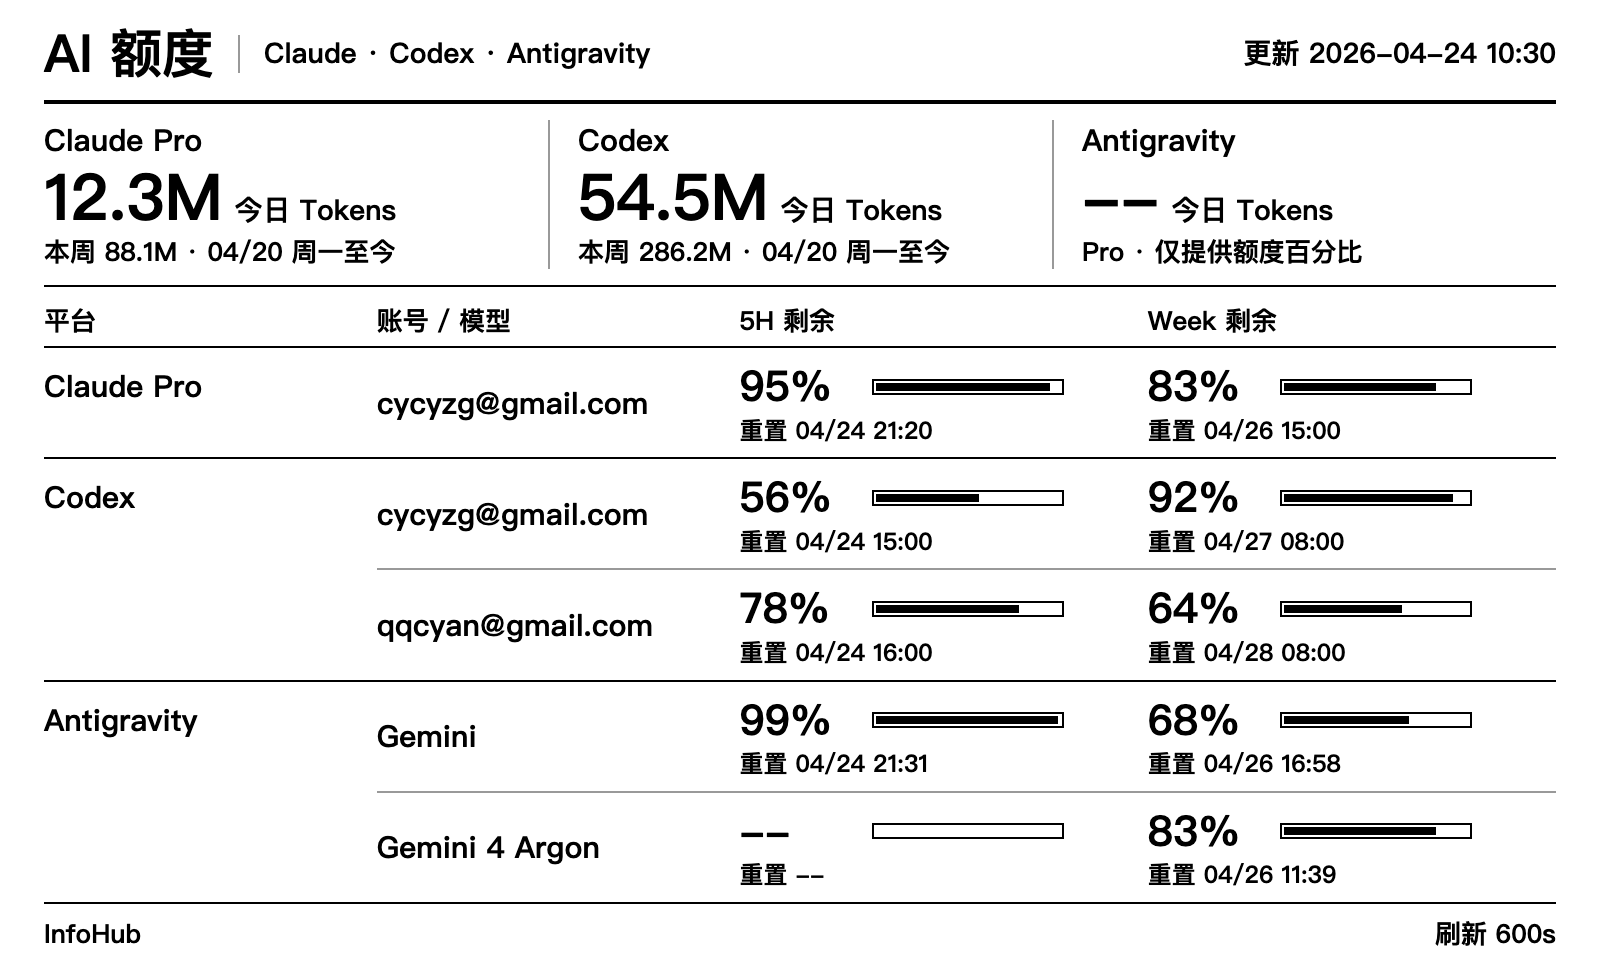
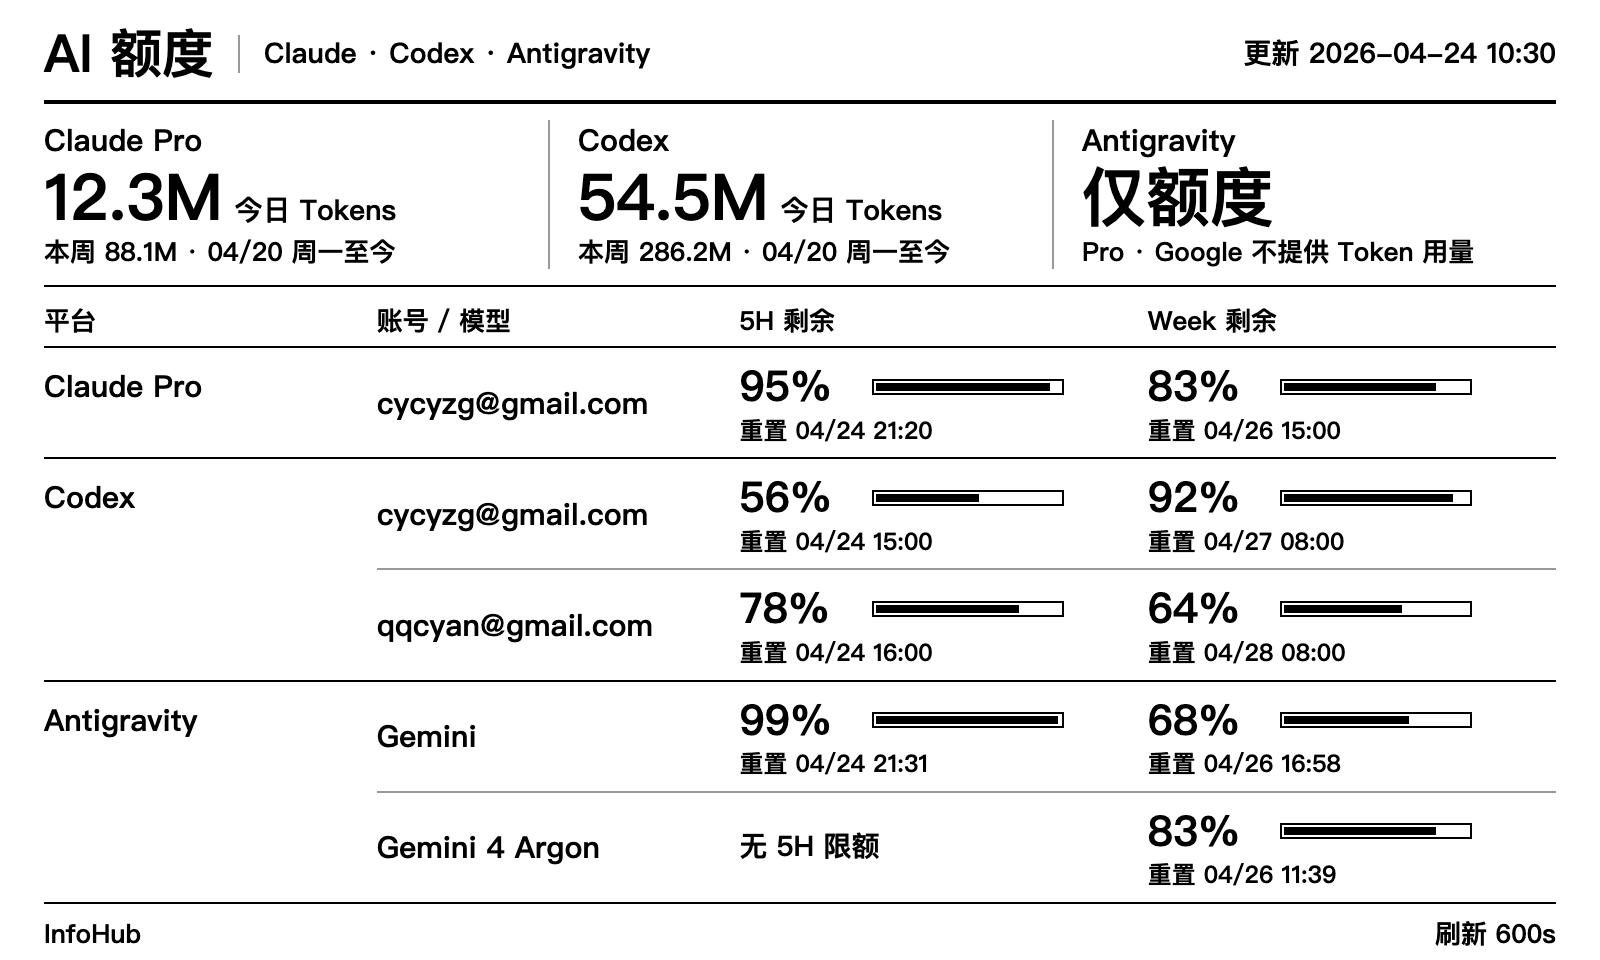
Show quota-only and weekly-only Antigravity groups explicitly
- Antigravity usage cell reads "仅额度" instead of "--"; Google exposes no
  token counts.
- Weekly-only groups (Gemini 4 Argon on Pro) show "无 5H 限额" without a
  bar or reset time, via a new `not_applicable` flag; unknown stays "--".
- A 5H window whose reset passed reads as refreshed instead of vanishing.

Changed region(s): [[0.6562, 0.1562, 0.9375, 0.2812], [0.4688, 0.8438, 0.6562, 0.9375]]

diff --git a/internal/api/dashboard_trio.html b/internal/api/dashboard_trio.html
@@ -34,6 +34,7 @@
   #trio .trio-track { flex: 1; max-width: 96px; height: 8px; border: 1px solid #000; padding: 1px; }
   #trio .trio-fill { display: block; height: 100%; background: #000; }
   #trio .trio-reset { font-size: 12px; }
+  #trio .trio-na { font-size: 14px; }
   #trio .trio-footer { margin-top: auto; border-top: 1px solid #000; padding-top: 6px; display: flex; justify-content: space-between; font-size: 13px; }
   @media (max-width: 560px) {
     #trio { padding: 14px; }
@@ -57,7 +58,7 @@
     {{range .Device.Platforms}}
     <div>
       <h2>{{.Name}}</h2>
-      <div class="trio-number"><strong>{{.Today}}</strong><span>今日 Tokens</span></div>
+      <div class="trio-number"><strong>{{.Today}}</strong>{{if .TodayLabel}}<span>{{.TodayLabel}}</span>{{end}}</div>
       <p class="trio-note">{{.UsageNote}}</p>
     </div>
     {{end}}
@@ -69,7 +70,7 @@
       <tr{{if eq $index 0}} class="trio-group"{{end}}>
         {{if eq $index 0}}<td class="trio-platform" rowspan="{{len $platform.Rows}}">{{$platform.Name}}</td>{{end}}
         <td class="trio-account">{{$row.Account}}</td>
-        <td><div class="trio-quota"><strong>{{$row.FiveHour.Text}}</strong><span class="trio-track" aria-hidden="true"><span class="trio-fill" style="width: {{$row.FiveHour.Percent}}%"></span></span></div><div class="trio-reset">重置 {{$row.FiveHour.ResetShort}}</div></td>
+        <td>{{if $row.FiveHour.NotApplicable}}<div class="trio-na">{{$row.FiveHour.Text}}</div>{{else}}<div class="trio-quota"><strong>{{$row.FiveHour.Text}}</strong><span class="trio-track" aria-hidden="true"><span class="trio-fill" style="width: {{$row.FiveHour.Percent}}%"></span></span></div><div class="trio-reset">重置 {{$row.FiveHour.ResetShort}}</div>{{end}}</td>
         <td><div class="trio-quota"><strong>{{$row.Week.Text}}</strong><span class="trio-track" aria-hidden="true"><span class="trio-fill" style="width: {{$row.Week.Percent}}%"></span></span></div><div class="trio-reset">重置 {{$row.Week.ResetShort}}</div></td>
       </tr>
       {{end}}{{end}}

diff --git a/internal/api/dashboard_trio.go b/internal/api/dashboard_trio.go
@@ -9,16 +9,22 @@ import (
 const (
 	trioCPASource         = "cpa"
 	trioAntigravitySource = "antigravity"
+	trioTokensLabel       = "今日 Tokens"
+	// Antigravity exposes quota percentages only, no token counts.
+	trioQuotaOnly       = "仅额度"
+	trioAntigravityNote = "Pro · Google 不提供 Token 用量"
+	trioNoFiveHour      = "无 5H 限额"
 )
 
 // einkPlatform is one block of the trio layout: a usage summary plus the
 // quota rows of its accounts or model groups.
 type einkPlatform struct {
-	Key       string         `json:"key"`
-	Name      string         `json:"name"`
-	Today     string         `json:"today"`
-	UsageNote string         `json:"usage_note"`
-	Rows      []einkQuotaRow `json:"rows"`
+	Key        string         `json:"key"`
+	Name       string         `json:"name"`
+	Today      string         `json:"today"`
+	TodayLabel string         `json:"today_label"`
+	UsageNote  string         `json:"usage_note"`
+	Rows       []einkQuotaRow `json:"rows"`
 }
 
 func buildTrioPlatforms(snapshots map[string]model.SourceSnapshot, device einkDevicePayload) []einkPlatform {
@@ -35,25 +41,27 @@ func buildTrioPlatforms(snapshots map[string]model.SourceSnapshot, device einkDe
 	antigravity := snapshots[trioAntigravitySource]
 	return []einkPlatform{
 		{
-			Key:       "claude",
-			Name:      "Claude Pro",
-			Today:     trioTokenText(claudeToday),
-			UsageNote: trioWeekNote(claudeWeek.DisplayValue, device.WeekRange),
-			Rows:      claudeRows,
+			Key:        "claude",
+			Name:       "Claude Pro",
+			Today:      trioTokenText(claudeToday),
+			TodayLabel: trioTokensLabel,
+			UsageNote:  trioWeekNote(claudeWeek.DisplayValue, device.WeekRange),
+			Rows:       claudeRows,
 		},
 		{
-			Key:       "codex",
-			Name:      "Codex",
-			Today:     device.Codex.DisplayValue,
-			UsageNote: trioWeekNote(device.CodexWeek.DisplayValue, device.WeekRange),
-			Rows:      device.CodexAccounts,
+			Key:        "codex",
+			Name:       "Codex",
+			Today:      device.Codex.DisplayValue,
+			TodayLabel: trioTokensLabel,
+			UsageNote:  trioWeekNote(device.CodexWeek.DisplayValue, device.WeekRange),
+			Rows:       device.CodexAccounts,
 		},
 		{
 			Key:       "antigravity",
 			Name:      "Antigravity",
-			Today:     "--",
-			UsageNote: "Pro · 仅提供额度百分比",
-			Rows:      trioQuotaRows(antigravity, trioAntigravitySource, "Gemini"),
+			Today:     trioQuotaOnly,
+			UsageNote: trioAntigravityNote,
+			Rows:      markMissingFiveHour(trioQuotaRows(antigravity, trioAntigravitySource, "Gemini")),
 		},
 	}
 }
@@ -70,6 +78,17 @@ func trioQuotaRows(snapshot model.SourceSnapshot, sourceKey, placeholder string)
 		row := emptyQuotaRow()
 		row.Account = placeholder
 		rows = append(rows, row)
+	}
+	return rows
+}
+
+// markMissingFiveHour labels groups that report a weekly limit but no 5H
+// window upstream; a row with neither window stays unknown.
+func markMissingFiveHour(rows []einkQuotaRow) []einkQuotaRow {
+	for index := range rows {
+		if rows[index].FiveHour.Text == "--" && rows[index].Week.Text != "--" {
+			rows[index].FiveHour = einkPercentCell{Text: trioNoFiveHour, ResetAt: "--", ResetShort: "--", NotApplicable: true}
+		}
 	}
 	return rows
 }
@@ -109,11 +128,11 @@ func mockTrioPlatforms(device einkDevicePayload) []einkPlatform {
 		return row
 	}
 	return []einkPlatform{
-		{Key: "claude", Name: "Claude Pro", Today: "12.3M", UsageNote: trioWeekNote("88.1M", device.WeekRange),
+		{Key: "claude", Name: "Claude Pro", Today: "12.3M", TodayLabel: trioTokensLabel, UsageNote: trioWeekNote("88.1M", device.WeekRange),
 			Rows: []einkQuotaRow{quota("cycyzg@gmail.com", 95, 83, "04/24 21:20", "04/26 15:00")}},
-		{Key: "codex", Name: "Codex", Today: device.Codex.DisplayValue, UsageNote: trioWeekNote(device.CodexWeek.DisplayValue, device.WeekRange),
+		{Key: "codex", Name: "Codex", Today: device.Codex.DisplayValue, TodayLabel: trioTokensLabel, UsageNote: trioWeekNote(device.CodexWeek.DisplayValue, device.WeekRange),
 			Rows: device.CodexAccounts},
-		{Key: "antigravity", Name: "Antigravity", Today: "--", UsageNote: "Pro · 仅提供额度百分比",
-			Rows: []einkQuotaRow{quota("Gemini", 99, 68, "04/24 21:31", "04/26 16:58"), quota("Gemini 4 Argon", -1, 83, "--", "04/26 11:39")}},
+		{Key: "antigravity", Name: "Antigravity", Today: trioQuotaOnly, UsageNote: trioAntigravityNote,
+			Rows: markMissingFiveHour([]einkQuotaRow{quota("Gemini", 99, 68, "04/24 21:31", "04/26 16:58"), quota("Gemini 4 Argon", -1, 83, "--", "04/26 11:39")})},
 	}
 }

diff --git a/internal/api/dashboard_trio_test.go b/internal/api/dashboard_trio_test.go
@@ -50,7 +50,7 @@ func TestTrioPlatforms(t *testing.T) {
 	if codex.Today != "54.5M" || len(codex.Rows) != 2 || codex.Rows[0].FiveHour.Text != "56%" || codex.Rows[1].FiveHour.Text != "--" {
 		t.Fatalf("codex = %+v", codex)
 	}
-	if ag.Today != "--" || len(ag.Rows) != 2 || ag.Rows[0].Account != "Gemini" || ag.Rows[1].FiveHour.Text != "--" || ag.Rows[1].Week.Text != "83%" {
+	if len(ag.Rows) != 2 || ag.Rows[0].Account != "Gemini" || ag.Rows[1].FiveHour.Text != "无 5H 限额" || !ag.Rows[1].FiveHour.NotApplicable || ag.Today != "仅额度" || ag.Rows[1].Week.Text != "83%" {
 		t.Fatalf("antigravity = %+v", ag)
 	}
 }
@@ -74,7 +74,7 @@ func TestTrioIsDefaultTemplate(t *testing.T) {
 	rec := httptest.NewRecorder()
 	h.EInkDashboard(rec, httptest.NewRequest(http.MethodGet, "/dashboard/eink", nil))
 	body := rec.Body.String()
-	for _, want := range []string{"AI 额度", "Claude Pro", "pro@example.com", "Gemini 4 Argon", "12.3M", "54.5M", "仅提供额度百分比", `rowspan="2"`} {
+	for _, want := range []string{"AI 额度", "Claude Pro", "pro@example.com", "Gemini 4 Argon", "12.3M", "54.5M", "Google 不提供 Token 用量", "无 5H 限额", `rowspan="2"`} {
 		if !strings.Contains(body, want) {
 			t.Fatalf("trio page missing %q", want)
 		}

diff --git a/internal/collector/antigravity.go b/internal/collector/antigravity.go
@@ -75,8 +75,13 @@ func (c *AntigravityCollector) Collect(ctx context.Context) ([]model.DataItem, e
 			{"5H", obs.Quota5hUsed, obs.Quota5hReset},
 			{"Week", obs.QuotaWeekUsed, obs.QuotaWeekReset},
 		} {
-			if window.used < 0 || resetPassed(window.reset, now) {
+			if window.used < 0 {
 				continue
+			}
+			if resetPassed(window.reset, now) {
+				// The window refreshed since the agent looked; keep the row
+				// instead of hiding it, the next report brings the new reset.
+				window.used, window.reset = 0, ""
 			}
 			item := sub2apiQuotaItem(c.Name(), AntigravitySourcePrefix+group, antigravityGroupLabel(group), window.name, window.used, window.reset)
 			item.Extra["product"] = "antigravity"

diff --git a/internal/api/dashboard.go b/internal/api/dashboard.go
@@ -76,10 +76,13 @@ type einkQuotaRow struct {
 }
 
 type einkPercentCell struct {
-	Percent    int    `json:"percent"`
-	Text       string `json:"text"`
-	ResetAt    string `json:"reset_at"`
-	ResetShort string `json:"reset_short"`
+	Percent int `json:"percent"`
+	// NotApplicable marks a window the quota group does not have at all
+	// (e.g. Antigravity's weekly-only Gemini 4 Argon), as opposed to unknown.
+	NotApplicable bool   `json:"not_applicable,omitempty"`
+	Text          string `json:"text"`
+	ResetAt       string `json:"reset_at"`
+	ResetShort    string `json:"reset_short"`
 }
 
 type einkDeepSeekQuota struct {

diff --git a/internal/collector/cpa_test.go b/internal/collector/cpa_test.go
@@ -179,8 +179,8 @@ func TestAntigravityCollectorGroups(t *testing.T) {
 	for _, item := range items {
 		got = append(got, item.Title+"="+item.Value)
 	}
-	// Gemini Models first; its 5H reset already passed so it is dropped; stale machine ignored.
-	want := "账号 Gemini Week 额度=68.30%,账号 Gemini 4 Argon Week 额度=83.30%"
+	// Gemini Models first; its passed 5H reset reads as refreshed; stale machine ignored.
+	want := "账号 Gemini 5H 额度=100%,账号 Gemini Week 额度=68.30%,账号 Gemini 4 Argon Week 额度=83.30%"
 	if strings.Join(got, ",") != want {
 		t.Fatalf("items = %v", got)
 	}

diff --git a/README_EN.md b/README_EN.md
@@ -122,7 +122,7 @@ The default `trio` template (Claude Pro · Codex · Antigravity) shows each plat
 
 - Claude Pro: `collectors.cpa` reads the CLIProxyAPI (CPA) management API. Quota comes from Anthropic `/api/oauth/usage` through `POST /v0/management/api-call`; usage is drained from CPA's `usage-queue`, cached in sqlite and totalled per Asia/Shanghai day and calendar week. The queue is destructive, so enable `CPA_ENABLED` on exactly one infohub instance, and raise CPA's `redis-usage-queue-retention-seconds` (default 60) to 3600 so restarts do not drop records. Usage that expired from the queue before deployment cannot be recovered.
 - Codex: Sub2API account quota filtered by `dashboard.accounts`, as before.
-- Antigravity: `infohub-agent` with `antigravity.enabled` reads `~/.gemini/jetski-standalone-oauth-token`, calls Cloud Code `retrieveUserQuotaSummary` and pushes groups whose name contains `Gemini` (e.g. `Gemini Models`, `Gemini 4 Argon`); enable `ANTIGRAVITY_ENABLED` on the server. Antigravity keeps no local token log, so its daily usage shows `--`; weekly-only groups show `--` for 5H.
+- Antigravity: `infohub-agent` with `antigravity.enabled` reads `~/.gemini/jetski-standalone-oauth-token`, calls Cloud Code `retrieveUserQuotaSummary` and pushes groups whose name contains `Gemini` (e.g. `Gemini Models`, `Gemini 4 Argon`); enable `ANTIGRAVITY_ENABLED` on the server. Antigravity exposes no token counts, so its usage cell reads 「仅额度」 (quota only); weekly-only groups (e.g. `Gemini 4 Argon`, separately metered on Pro) show 「无 5H 限额」 (no 5H limit) without a bar.
 
 The previous `codex` template shows today's and this week's cumulative tokens, followed by remaining 5H / Week quotas and reset times for `cycyzg@gmail.com` and `qqcyan@gmail.com`, without alerts. Weekly usage is Monday-to-date in Asia/Shanghai, queried using explicit dates on Sub2API's `usage_stats` endpoint, not the rolling seven-day quota. A failed weekly query displays `--` without discarding daily usage or quotas. Account filtering does not change the existing usage scope.
 

diff --git a/README.md b/README.md
@@ -124,7 +124,7 @@ log:
 
 - Claude Pro：`collectors.cpa` 读取 CLIProxyAPI（CPA）管理接口。额度经 `POST /v0/management/api-call` 代调 Anthropic `/api/oauth/usage`；用量从 CPA 的 `usage-queue` 拉取后缓存到 sqlite，再按北京时间今日 / 周一至今汇总。该队列读后即删，只能有一个 infohub 实例开启 `CPA_ENABLED`；CPA 的 `redis-usage-queue-retention-seconds` 默认 60 秒，建议调到 3600，避免 infohub 重启期间丢记录。部署前队列里已过期的历史用量无法补回。
 - Codex：沿用 Sub2API 账号额度与 `dashboard.accounts` 白名单。
-- Antigravity：本机 `infohub-agent` 开启 `antigravity.enabled`，读取 `~/.gemini/jetski-standalone-oauth-token`，调用 Cloud Code `retrieveUserQuotaSummary`，上报名称含 `Gemini` 的分组（如 `Gemini Models`、`Gemini 4 Argon`）；服务端开启 `ANTIGRAVITY_ENABLED`。Antigravity 没有本地 Token 日志，因此今日用量显示 `--`；只有周额度的分组 5H 显示 `--`。
+- Antigravity：本机 `infohub-agent` 开启 `antigravity.enabled`，读取 `~/.gemini/jetski-standalone-oauth-token`，调用 Cloud Code `retrieveUserQuotaSummary`，上报名称含 `Gemini` 的分组（如 `Gemini Models`、`Gemini 4 Argon`）；服务端开启 `ANTIGRAVITY_ENABLED`。Antigravity 不提供 Token 用量，用量栏显示「仅额度」；只有周额度的分组（如 Pro 计划下单独计额的 `Gemini 4 Argon`）5H 栏显示「无 5H 限额」，不画进度条。
 
 旧版 `codex` 模板（只有 Codex）：上方展示今日和本周累计 Token，下方仅展示 `cycyzg@gmail.com`、`qqcyan@gmail.com` 的 5H / Week 剩余额度及重置时间，不展示告警。周用量按北京时间周一至今，通过 Sub2API `usage_stats` 的日期范围查询获取，不是滚动七天额度；查询失败显示 `--`，不影响今日用量和账号额度。账号过滤不改变上方原有的用量统计范围。
 

diff --git a/README_CN.md b/README_CN.md
@@ -124,7 +124,7 @@ log:
 
 - Claude Pro：`collectors.cpa` 读取 CLIProxyAPI（CPA）管理接口。额度经 `POST /v0/management/api-call` 代调 Anthropic `/api/oauth/usage`；用量从 CPA 的 `usage-queue` 拉取后缓存到 sqlite，再按北京时间今日 / 周一至今汇总。该队列读后即删，只能有一个 infohub 实例开启 `CPA_ENABLED`；CPA 的 `redis-usage-queue-retention-seconds` 默认 60 秒，建议调到 3600，避免 infohub 重启期间丢记录。部署前队列里已过期的历史用量无法补回。
 - Codex：沿用 Sub2API 账号额度与 `dashboard.accounts` 白名单。
-- Antigravity：本机 `infohub-agent` 开启 `antigravity.enabled`，读取 `~/.gemini/jetski-standalone-oauth-token`，调用 Cloud Code `retrieveUserQuotaSummary`，上报名称含 `Gemini` 的分组（如 `Gemini Models`、`Gemini 4 Argon`）；服务端开启 `ANTIGRAVITY_ENABLED`。Antigravity 没有本地 Token 日志，因此今日用量显示 `--`；只有周额度的分组 5H 显示 `--`。
+- Antigravity：本机 `infohub-agent` 开启 `antigravity.enabled`，读取 `~/.gemini/jetski-standalone-oauth-token`，调用 Cloud Code `retrieveUserQuotaSummary`，上报名称含 `Gemini` 的分组（如 `Gemini Models`、`Gemini 4 Argon`）；服务端开启 `ANTIGRAVITY_ENABLED`。Antigravity 不提供 Token 用量，用量栏显示「仅额度」；只有周额度的分组（如 Pro 计划下单独计额的 `Gemini 4 Argon`）5H 栏显示「无 5H 限额」，不画进度条。
 
 旧版 `codex` 模板（只有 Codex）：上方展示今日和本周累计 Token，下方仅展示 `cycyzg@gmail.com`、`qqcyan@gmail.com` 的 5H / Week 剩余额度及重置时间，不展示告警。周用量按北京时间周一至今，通过 Sub2API `usage_stats` 的日期范围查询获取，不是滚动七天额度；查询失败显示 `--`，不影响今日用量和账号额度。账号过滤不改变上方原有的用量统计范围。
 

diff --git a/docs/zh/infohub-eink-direct-api-panel.md b/docs/zh/infohub-eink-direct-api-panel.md
@@ -41,7 +41,7 @@ curl "http://10.30.5.172:8080/dashboard/eink/device.json?token=YOUR_DASHBOARD_TO
 - `updated_at`
 - `codex`：仅 Codex 今日用量
 - `template`：`trio`（默认）、`codex` 或 `deepseek-codex`
-- `platforms`：`trio` 模板专用，依次为 Claude Pro、Codex、Antigravity；每项含 `name`、`today`（今日 Token）、`usage_note`（本周用量或说明）和 `rows`（账号 / 模型分组的 `five_hour` / `week` 剩余额度，结构同 `codex_accounts`）
+- `platforms`：`trio` 模板专用，依次为 Claude Pro、Codex、Antigravity；每项含 `name`、`today`（今日 Token，Antigravity 为「仅额度」）、`today_label`、`usage_note`（本周用量或说明）和 `rows`（账号 / 模型分组的 `five_hour` / `week` 剩余额度，结构同 `codex_accounts`；上游没有该窗口时 `not_applicable` 为 true）
 - `codex_week`：本周累计 Token，缺失或查询失败时为 `--`
 - `daily_range` / `week_range`：用量统计区间
 - `codex_accounts`：按邮箱白名单顺序排列的额度；未匹配账号仍保留 `--` 占位，窗口的 `reset_short` 使用北京时间

diff --git a/docs/en/infohub-eink-direct-api-panel.md b/docs/en/infohub-eink-direct-api-panel.md
@@ -41,7 +41,7 @@ The device endpoint returns a compact structure optimized for ESPHome parsing, c
 - `updated_at`
 - `codex`: Codex-only daily usage
 - `template`: `trio` (default), `codex` or `deepseek-codex`
-- `platforms`: `trio` only — Claude Pro, Codex and Antigravity in that order, each with `name`, `today` (daily tokens), `usage_note` (week-to-date usage or a note) and `rows` (per account / model group `five_hour` / `week` quota, same shape as `codex_accounts`)
+- `platforms`: `trio` only — Claude Pro, Codex and Antigravity in that order, each with `name`, `today` (daily tokens; 「仅额度」 for Antigravity), `today_label`, `usage_note` (week-to-date usage or a note) and `rows` (per account / model group `five_hour` / `week` quota, same shape as `codex_accounts`; `not_applicable` is true when the group has no such window upstream)
 - `codex_week`: week-to-date tokens, or `--` when unavailable
 - `daily_range` / `week_range`: usage date ranges
 - `codex_accounts`: email-allowlisted quotas in configured order; missing accounts retain unknown placeholders, and `reset_short` uses Asia/Shanghai
